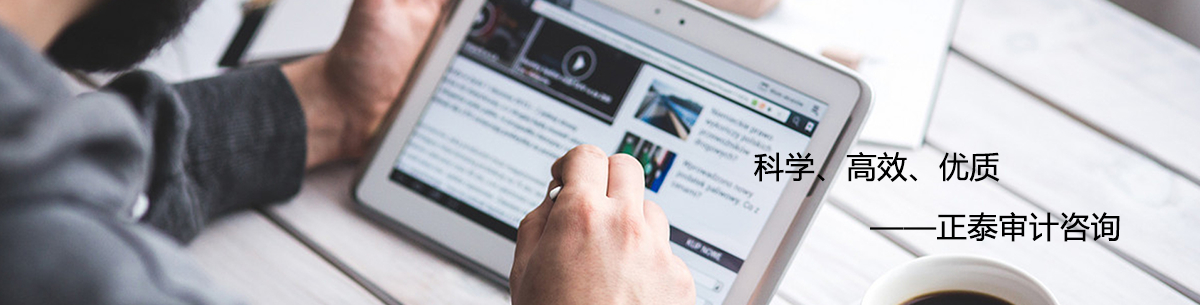
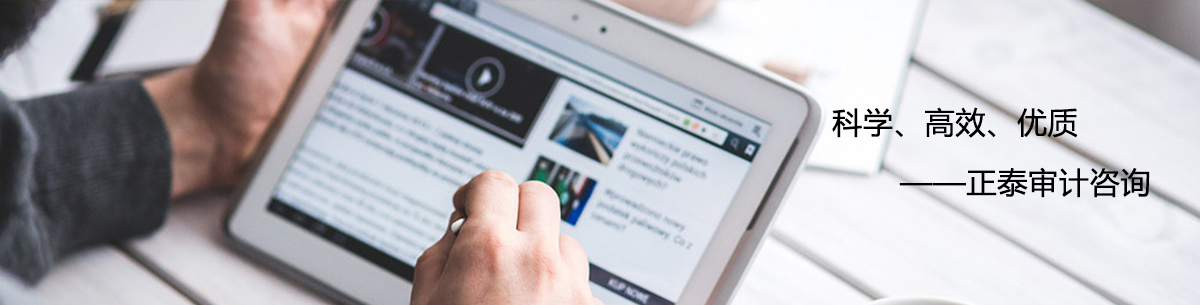
图片修改

diff --git a/WEB-INF/t/cms/sjzx/sjzx/channel/news_yjzs_2.html b/WEB-INF/t/cms/sjzx/sjzx/channel/news_yjzs_2.html
@@ -34,15 +34,23 @@
         <div class="bread">
             <i class="icon-house"></i>
             <div class="c">
-                <div class="t-1"><a href='${base}/'>首页</a> &gt; [#list channel.nodeList as n]<a href='${n.url}'
+            <!--    <div class="t-1"><a href='${base}/'>首页</a> &gt; [#list channel.nodeList as n]<a href='${n.url}'
                                                                                                 target='_blank'>${n.name}</a>[#if
-                    n_has_next] &gt; [/#if][/#list]
+                    n_has_next] &gt; [/#if][/#list]&ndash;&gt;-->
+                    业绩展示
                 </div>
                 <!--<div class="t-2">
                   <a href="#">地产</a>
                   <a href="#">物业</a>
                   <a href="#">酒店</a>
                 </div>-->
+
+                <div class="items" id="box">
+                    <a href="#" class="item1 item active">绩效评价</a>
+                    <a href="#" class="item2 item">科技专项</a>
+                    <a href="#" class="item3 item">高企认定</a>
+                    <a href="#" class="item4 item">多元审计</a>
+                </div>
             </div>
         </div>
         <div class="list-items">
@@ -82,9 +90,9 @@
                 <div style="text-align: center;padding-top: 50px;">[@cms_pagination sysPage='1'/]</div>
             </div>
             [/@cms_content_page]
-            <div class="news-selectbox">
+           <!-- <div class="news-selectbox">
                 <div class="news-select" name="layout-select" id="news-select" data_role="0">
-                    <input value="请选择..." id="select" readonly="readonly" type="text">
+                   <input value="请选择..." id="select" readonly="readonly" type="text">
                     <ul class="select-list">
                         [@cms_channel_list parentId=channel.parentId]
                         [#list tag_list as c2]
@@ -98,7 +106,7 @@
                     </ul>
                 </div>
             </div>
-        </div>
+        </div>-->
         <script>
             $(document).ready(function(){
                 $("#news-select").click(function(){

diff --git a/r/cms/sjzx/sjzx/css/content-news-xwzx_2.css b/r/cms/sjzx/sjzx/css/content-news-xwzx_2.css
@@ -37,15 +37,15 @@ img{border:0;vertical-align:middle;-ms-interpolation-mode:bicubic}
 .zyyw .list-items .item .name{flex: 1;}
 .zyyw .list-items .item .date{margin-right: 16px;}
 .zyyw .list-items .line{height: 1px;background-color: #ededed;}
-
-.zyyw .news-list{width:838px;padding-bottom:90px;border-left: 2px #f4f4f4 solid;margin-left: 360px;padding-top: 30px;}
-.zyyw .news-list li{width:840px;height:135px; position:relative;border-bottom:2px #f4f4f4 solid}
-.zyyw .news-list li a{width:760px;height:105px;padding:30px 40px 0px 40px;z-index:10;position:absolute;left:0;top:0;}
+.zyyw .zyyw-w .bread .items .item{display: block;float: left;font-size: 15px;color: #848181;padding: 0 5px;font-weight: bold;position: relative;}
+.zyyw .news-list{width:99.8%;padding-bottom:90px;border-left: 2px #f4f4f4 solid;padding-top: 30px;border-right: 2px #f4f4f4 solid;}
+.zyyw .news-list li{width:100%;height:135px; position:relative;border-bottom:2px #f4f4f4 solid}
+.zyyw .news-list li a{width:90%;height:105px;padding:30px 40px 0px 40px;z-index:10;position:absolute;left:0;top:0;}
 .zyyw .news-list li span{width:0;height:135px;position:absolute;left:0;top:0;z-index:8;background:-webkit-gradient(linear,120% 0%, 0% 100%, from(#f8f6f6), to(#f3f3f3), color-stop(1.2,#f3f3f3));-webkit-transition:all .3s;-moz-transition:all .3s;-transition:all .3s;}
 .zyyw .news-list li h3{font-size:16px;color:#666666;padding-right:12px;margin-bottom:15px;background:url("http://www.bgy.com.cn/images/news-list.png") no-repeat right center;}
 .zyyw .news-list li h4{height:105px;width:125px; font-size:30px;color:#999999;font-family:'dincond-medium';letter-spacing:-1px;float:left;font-weight:500;}
 .zyyw .news-list li p{font-size:12.5px;color:#999999;line-height: 22px;}
-.zyyw .news-list li:hover span{width:840px;}
+.zyyw .news-list li:hover span{width:100%;}
 .zyyw .news-list li:hover h3{color:#116fb9;background:url("http://www.bgy.com.cn/images/news-list-on.png") no-repeat right center;}
 .zyyw .news-list .avatar{display: block;width: 360px;height: 100%;overflow: hidden;position: absolute;top: 0;left: -362px;}
 .zyyw .news-list .avatar img{width: 100%;}

diff --git a/r/cms/main/main/css/header.css b/r/cms/main/main/css/header.css
@@ -11,8 +11,8 @@
 .icon-user{background-image:url(icon.png);background-position:-20px -40px;width:18px;height:18px}
 
 
-.header .container{height:105px}
-.header .logo{float:left;margin:20px 0 0 0}
+.header .container{height:130px}
+.header .logo{float:left;margin:20px 0 0 0;height:80px;width: 500px;}
 .header .sign{float:right;border:1px solid #e5e5e5;height:38px;line-height:38px;border-radius:12px;font-size:0;margin-top:29px}
 .header .sign .icon{float:left;margin:10px 12px 0}
 .header .sign .bd{padding:0 18px;display:inline-block;border-left:1px solid #e5e5e5;font-size:0;line-height: 40px;height: 40px;}

diff --git a/WEB-INF/t/cms/kjzx/kjzx/index/index.html b/WEB-INF/t/cms/kjzx/kjzx/index/index.html
@@ -108,7 +108,7 @@
 
                 </div>
                 <div class="tab-bd">
-                    <div id="c1" class="item  active">
+                     <div id="c1" class="item  active">
                         [@cms_content_list count='4' orderBy='4' channelId='231' channelOption='1'
                         dateFormat='yyyy-MM-dd']
                         [#list tag_list as a]

diff --git a/r/cms/main/main/css/news-zxfw.css b/r/cms/main/main/css/news-zxfw.css
@@ -55,7 +55,7 @@ img{border:0;vertical-align:middle;-ms-interpolation-mode:bicubic}
   .xxgs .xxgs-main .container .xxgs-cnt{width: 1150px;}
   .xxgs .xxgs-main .container .xxgs-cnt .bd .name{width: 866px;}
 }*/
-
+.wenzi{margin: 3px 0 1px 22px;}
 #left_m{
     display: inline-block;
 }
